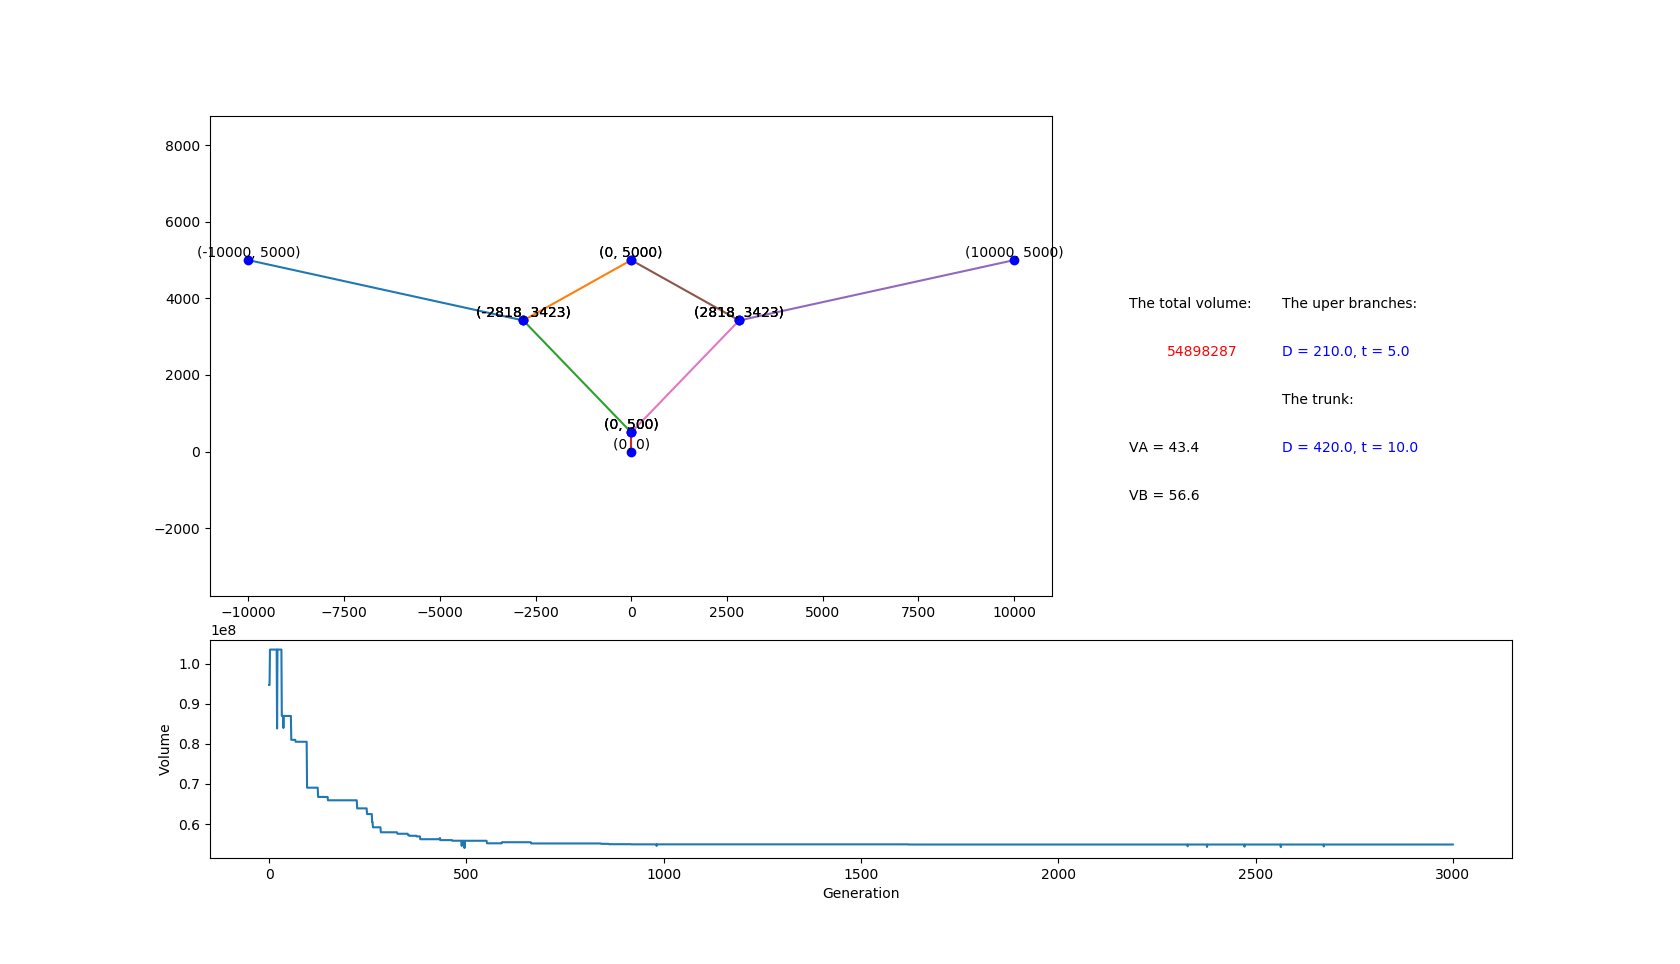
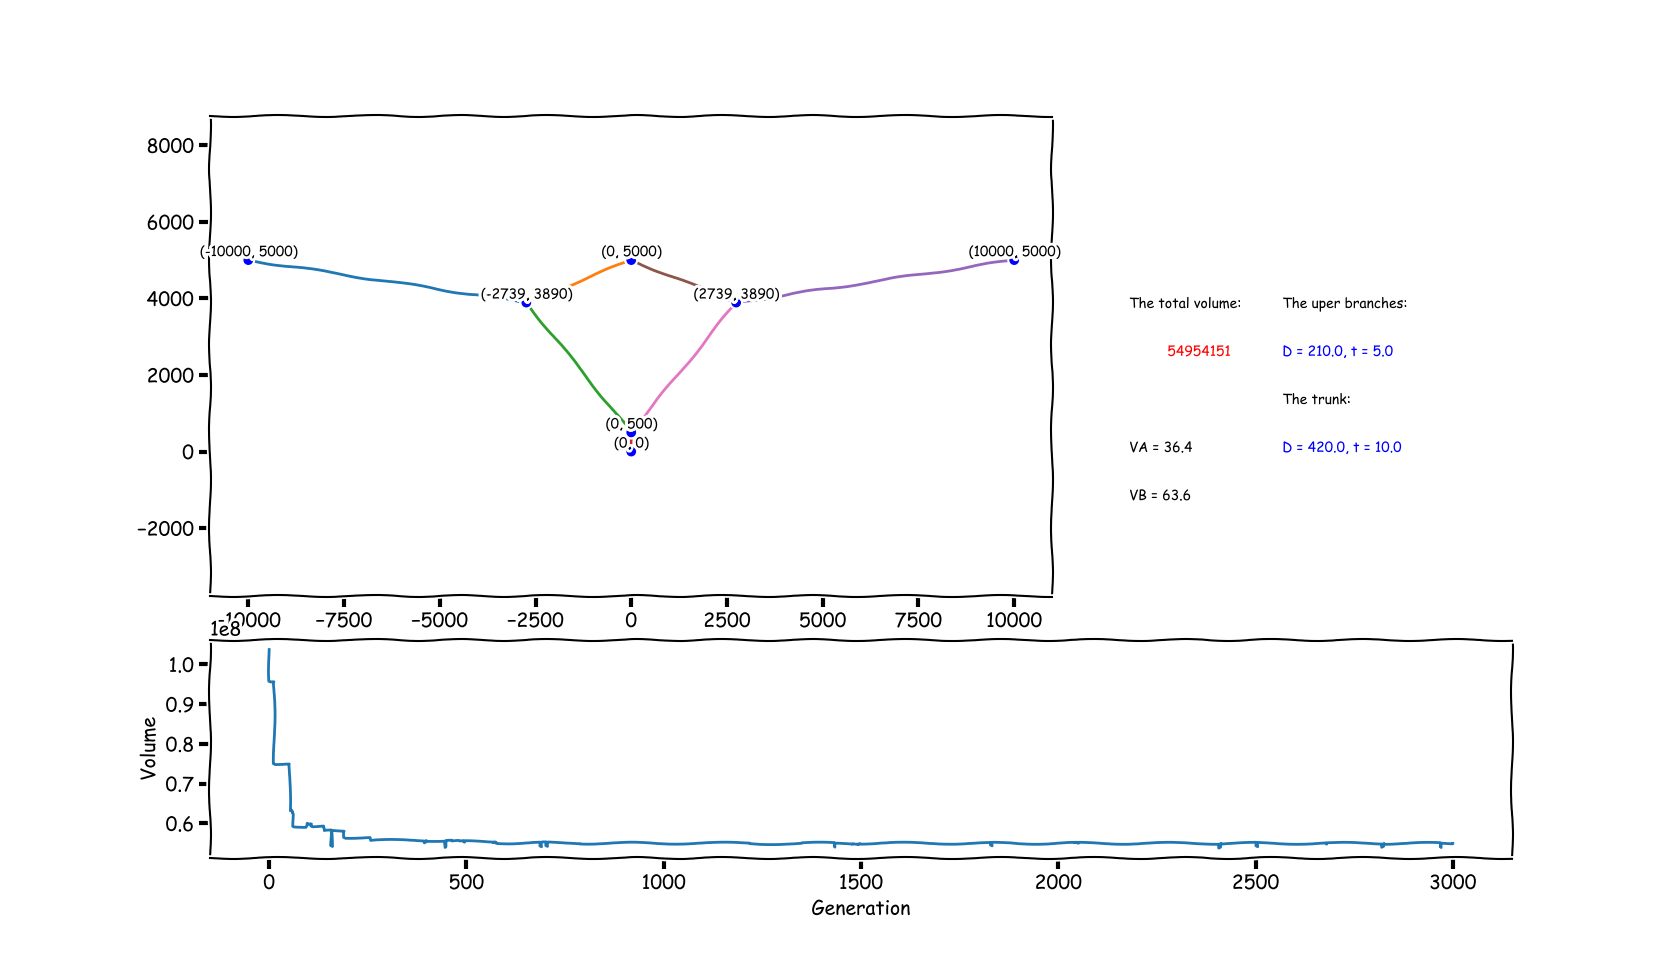
en

diff --git a/ring/ring_GA.py b/ring/ring_GA.py
@@ -490,40 +490,41 @@ shear_forces_description = []
 for i, j in zip(rd[5], ['A', 'B']):
 	shear_forces_description.append('V{} = {:.1f}'.format(j, i/1000))
 
-fig1 = plt.figure('fig1')
-gs = GridSpec(3, 3)
+with plt.xkcd():
+	fig1 = plt.figure('fig1')
+	gs = GridSpec(3, 3)
 
 
-ax1 = plt.subplot(plt.subplot(gs[0:-1, 0:-1]))
-ax1.axis('equal')
+	ax1 = plt.subplot(plt.subplot(gs[0:-1, 0:-1]))
+	ax1.axis('equal')
 
 
-ax4 = plt.subplot(plt.subplot(gs[0:-1, 2]))
-ax4.text(0.0, 0.6, 'The total volume:', fontsize=10)
-ax4.text(0.1, 0.5, int(rd[2]), fontsize=10, color='red')
+	ax4 = plt.subplot(plt.subplot(gs[0:-1, 2]))
+	ax4.text(0.0, 0.6, 'The total volume:', fontsize=10)
+	ax4.text(0.1, 0.5, int(rd[2]), fontsize=10, color='red')
 
-ax4.text(0.0, 0.3, shear_forces_description[0], fontsize=10)
-ax4.text(0.0, 0.2, shear_forces_description[1], fontsize=10)
+	ax4.text(0.0, 0.3, shear_forces_description[0], fontsize=10)
+	ax4.text(0.0, 0.2, shear_forces_description[1], fontsize=10)
 
-ax4.text(0.4, 0.6, 'The uper branches:', fontsize=10)
-ax4.text(0.4, 0.5, pipe_description[0], fontsize=10, color='blue')
-ax4.text(0.4, 0.4, 'The trunk:', fontsize=10)
-ax4.text(0.4, 0.3, pipe_description[1], fontsize=10, color='blue')
+	ax4.text(0.4, 0.6, 'The uper branches:', fontsize=10)
+	ax4.text(0.4, 0.5, pipe_description[0], fontsize=10, color='blue')
+	ax4.text(0.4, 0.4, 'The trunk:', fontsize=10)
+	ax4.text(0.4, 0.3, pipe_description[1], fontsize=10, color='blue')
 
-ax4.set_axis_off()
+	ax4.set_axis_off()
 
-for i in data:
-	ax1.plot(*i)
-	ax1.plot(*i, 'bo')
-	for a, b in zip(*i):
-		a, b = int(a), int(b)
-		ax1.text(a, b, (a, b), ha='center', va='bottom', fontsize=10)
+	for i in data:
+		ax1.plot(*i)
+		ax1.plot(*i, 'bo')
+		for a, b in zip(*i):
+			a, b = int(a), int(b)
+			ax1.text(a, b, (a, b), ha='center', va='bottom', fontsize=10)
 
 
-gx = [i for i in range(rd[4])]
-ax5 = plt.subplot(plt.subplot(gs[2, :]))
-ax5.plot(gx, rd[3])
-plt.ylabel('Volume')
-plt.xlabel('Generation')
+	gx = [i for i in range(rd[4])]
+	ax5 = plt.subplot(plt.subplot(gs[2, :]))
+	ax5.plot(gx, rd[3])
+	plt.ylabel('Volume')
+	plt.xlabel('Generation')
 
 plt.show()
